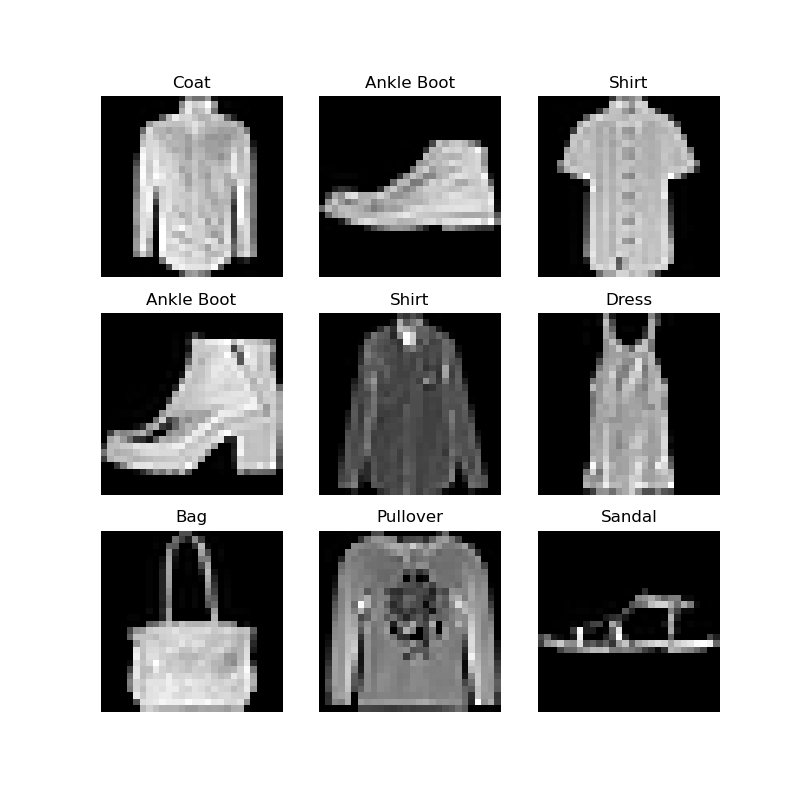
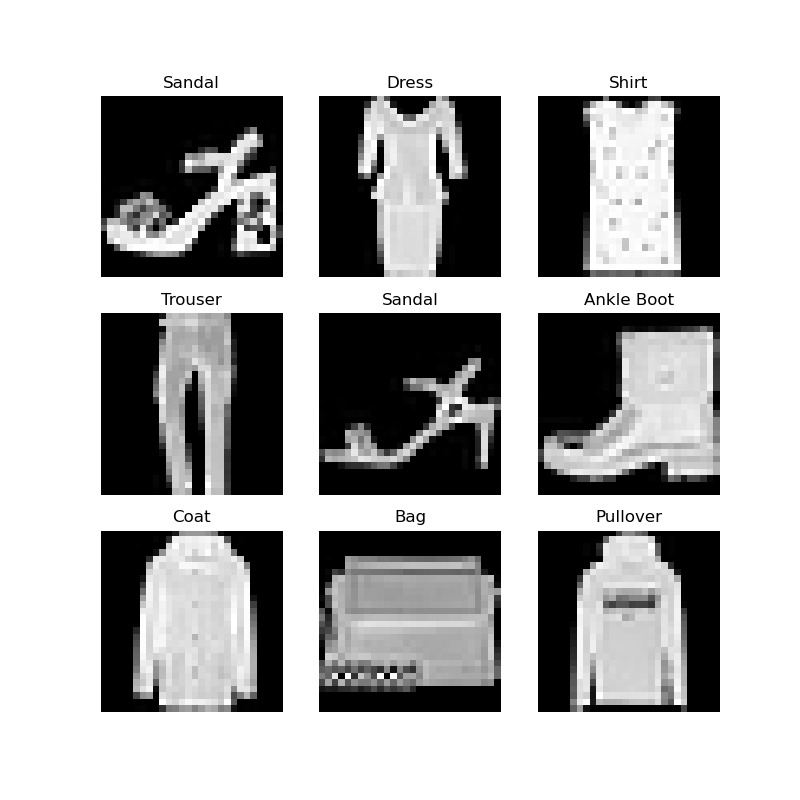
DataLoader

Changed region(s): [[0.125, 0.0938, 0.625, 0.9062], [0.6562, 0.0938, 0.9062, 0.9062]]

diff --git a/01_01.py b/01_01.py
@@ -55,3 +55,20 @@ for i in range(1, cols * rows + 1):
     plt.imshow(img.squeeze(), cmap="gray")
 plt.savefig("pic/FashionMNIST%s.png" % datetime.datetime.now().day)
 # plt.show()
+
+
+train_dataloader = DataLoader(training_data, batch_size=64, shuffle=True)
+test_dataloader = DataLoader(test_data, batch_size=64, shuffle=True)
+
+# Display image and label.
+train_features, train_labels = next(iter(train_dataloader))
+print(".............................")
+print(train_features)
+print(train_labels)
+print(f"Feature batch shape: {train_features.size()}") # Feature batch shape: torch.Size([64, 1, 28, 28])
+print(f"Labels batch shape: {train_labels.size()}") # Labels batch shape: torch.Size([64])
+img = train_features[0].squeeze()
+label = train_labels[0]
+plt.imshow(img, cmap="gray")
+plt.show()
+print(f"Label: {label}")

diff --git a/01_02.py b/01_02.py
@@ -33,3 +33,4 @@ class CustomImageDataset(Dataset):
         if self.target_transform:
             label = self.target_transform(label)
         return image, label
+
